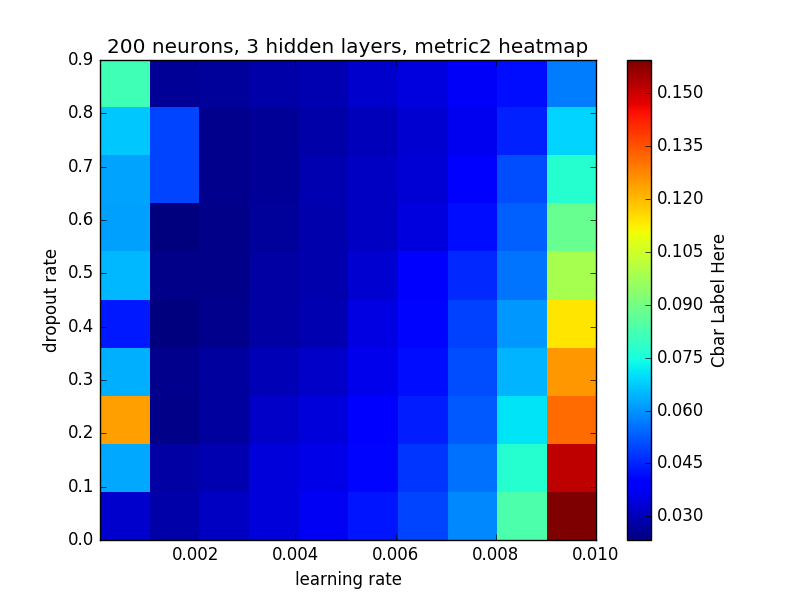
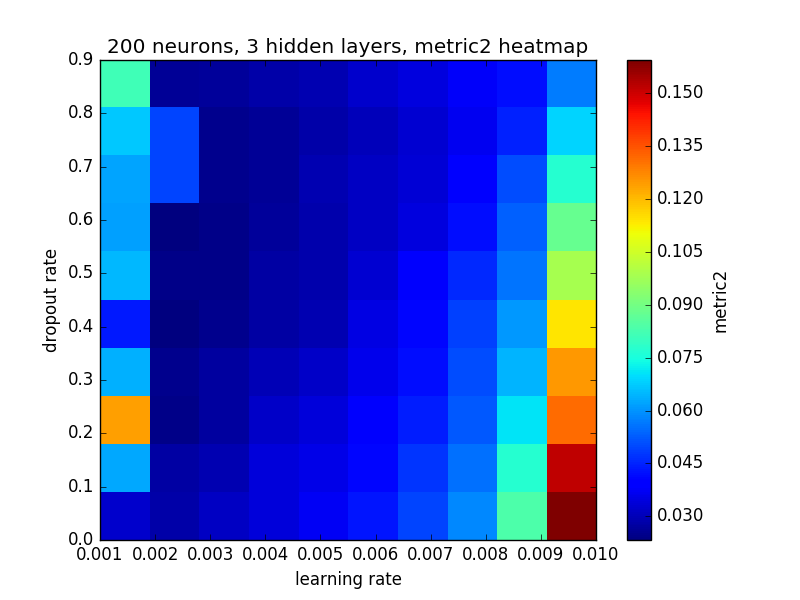
add 2D heatmap

Changed region(s): [[0.0938, 0.9, 0.7188, 0.93], [0.875, 0.39, 0.9062, 0.6]]

diff --git a/plot_2d_heatmap_from_5d.py b/plot_2d_heatmap_from_5d.py
@@ -54,9 +54,9 @@ for i,lr in enumerate(np.unique(learning_rate)):
 
 
 fig, ax = plt.subplots()
-cax = ax.imshow(m2_average_matrix,aspect='auto',interpolation='nearest', extent=[0.001, 0.01, 0, 0.9])
+cax = ax.imshow(m2_variance_matrix,aspect='auto',interpolation='nearest', extent=[0.001, 0.01, 0, 0.9])
 cbar = fig.colorbar(cax)
-cbar.set_label('Cbar Label Here')
+cbar.set_label('variance')
 plt.title('200 neurons, 3 hidden layers, metric2 heatmap')
 plt.ylabel('dropout rate')
 plt.xlabel('learning rate')
